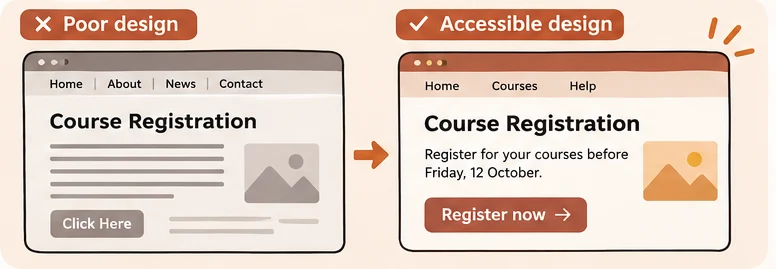
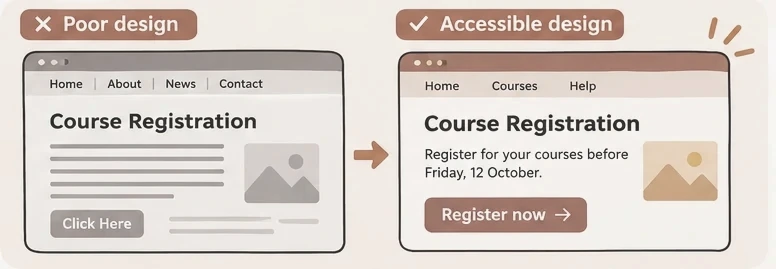
Add files via upload

diff --git a/index.html b/index.html
@@ -1,28 +1,35 @@
-<!doctype html>
+<!DOCTYPE html>
+
 <html lang="en">
 <head>
-<meta charset="utf-8">
-<meta name="viewport" content="width=device-width, initial-scale=1">
-<meta name="theme-color" content="#fff2e5">
-<meta name="description" content="Digit All or Nothing: a practical, illustrated guide to digital accessibility for everyone.">
+<meta charset="utf-8"/>
+<meta content="width=device-width, initial-scale=1" name="viewport"/>
+<meta content="#fff2e5" name="theme-color"/>
+<meta content="Digit All or Nothing: a practical, illustrated guide to digital accessibility for everyone." name="description"/>
 <title>Digit All or Nothing | Digital Accessibility Guide</title>
-<link rel="preconnect" href="https://fonts.googleapis.com">
-<link rel="preconnect" href="https://fonts.gstatic.com" crossorigin>
-<link href="https://fonts.googleapis.com/css2?family=Libre+Baskerville:wght@400;700&family=Work+Sans:wght@400;500;600;700&display=swap" rel="stylesheet">
-<link rel="stylesheet" href="styles.css">
-<script src="script.js" defer></script>
+<link href="https://fonts.googleapis.com" rel="preconnect"/>
+<link crossorigin="" href="https://fonts.gstatic.com" rel="preconnect"/>
+<link href="https://fonts.googleapis.com/css2?family=Libre+Baskerville:wght@400;700&amp;family=Work+Sans:wght@400;500;600;700&amp;display=swap" rel="stylesheet"/>
+<link href="styles.css" rel="stylesheet"/>
+<script defer="" src="script.js"></script>
 </head>
 <body>
 <a class="skip-link" href="#main">Skip to main content</a>
-<header class="site-header"><div class="shell header-inner"><a class="wordmark" href="#welcome" aria-label="Digit All or Nothing, back to top"><span class="brand-mark">D<span class="brand-dot">.</span></span><span>DIGIT ALL<br>OR NOTHING</span></a><button class="menu-button" type="button" aria-controls="site-nav" aria-expanded="false">Explore <span aria-hidden="true">☰</span></button><nav id="site-nav" class="nav" aria-label="Sections"><a href="#barriers">Barriers</a><a href="#features">Features</a><a href="#how-to">How-to</a><a href="#design">Design</a><a href="#tips">Tips</a></nav></div></header>
+<header class="site-header"><div class="shell header-inner"><a aria-label="Digit All or Nothing, back to top" class="wordmark" href="#welcome"><span>DIGIT ALL<br/>OR NOTHING</span></a><button aria-controls="site-nav" aria-expanded="false" class="menu-button" type="button">Explore <span aria-hidden="true">☰</span></button><nav aria-label="Sections" class="nav" id="site-nav"><a href="#barriers">Barriers</a><a href="#features">Features</a><a href="#how-to">How-to</a><a href="#design">Design</a><a href="#tips">Tips</a></nav></div></header>
 <main id="main">
-<section id="welcome" class="hero"><div class="shell hero-grid"><div class="hero-copy"><p class="eyebrow"><span class="tiny-line"></span> DIGITAL ACCESSIBILITY · SDG 4.4</p><h1>Technology should work <em>for everyone.</em></h1><p class="lead">A friendly, practical guide to removing digital barriers—and making the online world more inclusive, one small change at a time.</p><a class="primary-link" href="#barriers">Explore the guide <span aria-hidden="true">↗</span></a><p class="hero-foot">No sign-up. No downloads. Just useful knowledge.</p></div><div class="hero-art"><img src="assets/hero.webp" alt="Illustration of students with different accessibility needs using a laptop and tablet together, including a student with a white cane" width="778" height="411" fetchpriority="high"><div class="floating-note">Access is for <strong>everyone.</strong></div></div></div></section>
-<section class="intro-strip"><div class="shell intro-inner"><div class="intro-number">01 <span>— WELCOME</span></div><div><h2>What is digital accessibility?</h2><p>Digital accessibility means making websites, apps and digital information usable by people with different abilities and needs. It can involve screen readers, captions, clear navigation, readable text and flexible ways to interact.</p><p>Accessible technology helps people learn, communicate and work more independently. That supports the spirit of <strong>UN Sustainable Development Goal 4, Target 4.4</strong>: building relevant skills for education and employment.</p></div></div></section>
-<section id="barriers" class="section shell"><div class="section-top"><p class="eyebrow">02 · UNDERSTAND THE CHALLENGE</p><h2>Not everyone experiences<br>the web in the same way.</h2><p>A digital barrier is anything that makes online information or services difficult to access. Here are four common types.</p></div><div class="barrier-grid"><article class="barrier-card"><img src="assets/visual-barrier.webp" alt="Person squinting at small text displayed on a tablet" loading="lazy"><div class="card-body"><span class="card-index">01 / 04</span><h3>Visual barriers</h3><p>Small text, weak contrast or images without descriptions can block understanding.</p><p class="example"><strong>Example:</strong> A student cannot read tiny assignment instructions.</p></div></article><article class="barrier-card"><img src="assets/hearing-barrier.webp" alt="Student watching a video lecture with captions" loading="lazy"><div class="card-body"><span class="card-index">02 / 04</span><h3>Hearing barriers</h3><p>Videos without captions or transcripts can leave people out of the conversation.</p><p class="example"><strong>Example:</strong> A lecture recording contains speech but no captions.</p></div></article><article class="barrier-card"><img src="assets/motor-barrier.webp" alt="Hand operating a laptop while a mouse-only action is marked as unavailable" loading="lazy"><div class="card-body"><span class="card-index">03 / 04</span><h3>Motor barriers</h3><p>Mouse-only actions, tiny buttons and demanding gestures can make tasks inaccessible.</p><p class="example"><strong>Example:</strong> An online form cannot be completed with a keyboard.</p></div></article><article class="barrier-card"><img src="assets/cognitive-barrier.webp" alt="Student confused by an overcrowded computer interface" loading="lazy"><div class="card-body"><span class="card-index">04 / 04</span><h3>Cognitive barriers</h3><p>Complex wording, cluttered screens and unclear instructions increase effort.</p><p class="example"><strong>Example:</strong> A portal has too many competing menus.</p></div></article></div><p class="section-takeaway"><span aria-hidden="true">✳</span> <strong>The point:</strong> people need different ways to access the same information.</p></section>
-<section id="features" class="section features-section"><div class="shell"><div class="section-top"><p class="eyebrow">03 · TOOLS THAT HELP</p><h2>Accessibility is already<br>built into your devices.</h2><p>Many helpful tools come with the phone or computer you already own.</p></div><div class="feature-illustration"><img src="assets/features.webp" alt="Illustrated icons for screen readers, captions, voice typing, keyboard navigation, magnification and display settings" loading="lazy"></div><div class="features-grid"><article><span class="feature-num">01</span><h3>Screen readers</h3><p>Speak text, buttons and other interface information aloud. They work best when digital content is clearly labelled.</p></article><article><span class="feature-num">02</span><h3>Live captions</h3><p>Display spoken words as text during supported audio and video. Helpful for lectures and noisy surroundings.</p></article><article><span class="feature-num">03</span><h3>Voice typing</h3><p>Turn speech into text for messages, notes and documents when typing is difficult or inconvenient.</p></article><article><span class="feature-num">04</span><h3>Keyboard navigation</h3><p>Move between links and controls using <kbd>Tab</kbd>, <kbd>Shift</kbd> + <kbd>Tab</kbd> and <kbd>Enter</kbd> without a mouse.</p></article><article><span class="feature-num">05</span><h3>Magnification</h3><p>Enlarge a portion of the screen or zoom in to see details more comfortably.</p></article><article><span class="feature-num">06</span><h3>Display settings</h3><p>Adjust text size and contrast to make information easier to read.</p></article></div></div></section>
-<section id="how-to" class="section shell"><div class="section-top"><p class="eyebrow">04 · MAKE IT YOURS</p><h2>Try an accessibility<br>feature on your device.</h2><p>Select a device below to learn where to adjust text size. Menu names can vary by software version.</p></div><div class="tutorial"><div class="tutorial-left"><div class="device-tabs" role="group" aria-label="Choose your device"><button type="button" class="device-tab active" data-device="iphone" aria-pressed="true">iPhone</button><button type="button" class="device-tab" data-device="android" aria-pressed="false">Android</button><button type="button" class="device-tab" data-device="windows" aria-pressed="false">Windows</button><button type="button" class="device-tab" data-device="mac" aria-pressed="false">Mac</button></div><div class="tutorial-content" aria-live="polite" aria-atomic="true"><p class="eyebrow">TEXT SIZE TUTORIAL</p><h3 id="device-title">Increase text size on iPhone</h3><ol id="device-steps"><li>Open <strong>Settings</strong>.</li><li>Select <strong>Accessibility</strong>, then <strong>Display &amp; Text Size</strong>.</li><li>Choose <strong>Larger Text</strong> and adjust the slider.</li></ol><p id="device-note" class="tutorial-note">The available range may depend on the app and your iOS version.</p></div></div><div class="tutorial-right"><div class="tutorial-image-wrap"><img src="assets/device-concept.webp" alt="Concept illustration of an iPhone settings screen beside three instructional steps; not an actual screenshot" loading="lazy"></div><p class="image-disclaimer">Illustrative concept only · Real device screenshots will replace this image before publication.</p></div></div></section>
-<section id="design" class="section design-section"><div class="shell"><div class="section-top"><p class="eyebrow">05 · SEE THE DIFFERENCE</p><h2>Good design removes<br>unnecessary obstacles.</h2><p>Compare two versions of a university course-registration message. Select either view.</p></div><div class="comparison-grid"><div class="compare-controls" role="group" aria-label="Choose a design example"><button type="button" class="compare-tab" data-compare="poor" aria-pressed="false">Poor design</button><button type="button" class="compare-tab active" data-compare="good" aria-pressed="true">Accessible design</button></div><div id="compare-panel" class="compare-panel good"><div class="fake-browser"><div class="browser-top"><span aria-hidden="true">● ● ●</span><span>University course portal</span></div><div class="browser-content"><span id="compare-label" class="fake-subtitle">COURSE REGISTRATION</span><h3 id="compare-heading">Register for your courses</h3><p id="compare-description">Registration closes Friday. Review your choices before submitting.</p><span id="fake-cta" class="fake-cta">Review courses <span aria-hidden="true">↗</span></span></div></div></div><p id="compare-caption" class="comparison-caption" aria-live="polite"><strong>Accessible design:</strong> readable text, clear instructions and a descriptive action label help people know what to do next.</p></div><div class="design-extra"><div><strong>Use clear language</strong><p>Write instructions that tell people exactly what action to take.</p></div><div><strong>Make focus visible</strong><p>Keyboard users should be able to see which control is selected.</p></div><div><strong>Check contrast</strong><p>Text should remain readable against its background.</p></div></div></div></section>
-<section id="tips" class="section shell tips-section"><div class="section-top"><p class="eyebrow">06 · EVERYDAY HABITS</p><h2>Small changes.<br>More inclusive experiences.</h2><p>You don't need to be a designer to make digital information easier to use.</p></div><div class="tips-art"><img src="assets/tips.webp" alt="Illustrated reminder cards about image descriptions, text contrast and straightforward layouts" loading="lazy"></div><div class="tips-grid"><article><span class="tip-symbol" aria-hidden="true">↗</span><h3>When studying</h3><p>Turn on captions for recorded lectures, zoom in on reading materials and use headings to organise your notes.</p></article><article><span class="tip-symbol" aria-hidden="true">✳</span><h3>When communicating</h3><p>Describe meaningful images, use descriptive link text and don't rely on colour alone to communicate important information.</p></article><article><span class="tip-symbol" aria-hidden="true">Aa</span><h3>When creating content</h3><p>Choose readable text, logical headings, clear labels and strong contrast. Caption videos when possible.</p></article></div><div class="closing-message"><p class="eyebrow">ONE THING TO REMEMBER</p><p>Accessibility isn't an extra feature. <em>It's part of making technology work for people.</em></p><a href="#welcome">Back to top ↑</a></div></section>
+<section class="hero" id="welcome"><div class="shell hero-grid"><div class="hero-copy"><p class="eyebrow"> DIGITAL ACCESSIBILITY · SDG 4.4</p><h1>Technology should work <em>for everyone.</em></h1><p class="lead">A friendly, practical guide to removing digital barriers, and making the online world more inclusive, one small change at a time.</p><a class="primary-link" href="#barriers">Explore the guide <span aria-hidden="true">↗</span></a><p class="hero-foot">No sign-up. No downloads. Just useful knowledge.</p></div><div class="hero-art"><img alt="Illustration of three students using digital devices together, including a wheelchair user" fetchpriority="high" height="411" src="assets/hero.webp" width="778"/><div class="floating-note">Access is for <strong>everyone.</strong></div></div></div></section>
+<section class="intro-strip"><div class="shell intro-inner"><div class="intro-number">01 <span>:  WELCOME</span></div><div><h2>What is digital accessibility?</h2><p>Digital accessibility means making websites, apps and digital information usable by people with different abilities and needs. It can involve screen readers, captions, clear navigation, readable text and flexible ways to interact.</p><p>Accessible technology helps people learn, communicate and work more independently. That supports the spirit of <strong>UN Sustainable Development Goal 4, Target 4.4</strong>: building relevant skills for education and employment.</p></div></div></section>
+<section class="section shell" id="barriers"><div class="section-top"><p class="eyebrow">02 · UNDERSTAND THE CHALLENGE</p><h2>Not everyone experiences<br/>the web in the same way.</h2><p>A digital barrier is anything that makes online information or services difficult to access. Here are four common types.</p></div><div class="barrier-grid"><article class="barrier-card"><img alt="Person squinting at small text displayed on a tablet" loading="lazy" src="assets/visual-barrier.webp"/><div class="card-body"><span class="card-index">01 / 04</span><h3>Visual barriers</h3><p>Small text, weak contrast or images without descriptions can block understanding.</p><p class="example"><strong>Example:</strong> A student cannot read tiny assignment instructions.</p></div></article><article class="barrier-card"><img alt="Student watching a video lecture with captions" loading="lazy" src="assets/hearing-barrier.webp"/><div class="card-body"><span class="card-index">02 / 04</span><h3>Hearing barriers</h3><p>Videos without captions or transcripts can leave people out of the conversation.</p><p class="example"><strong>Example:</strong> A lecture recording contains speech but no captions.</p></div></article><article class="barrier-card"><img alt="Hand operating a laptop while a mouse-only action is marked as unavailable" loading="lazy" src="assets/motor-barrier.webp"/><div class="card-body"><span class="card-index">03 / 04</span><h3>Motor barriers</h3><p>Mouse-only actions, tiny buttons and demanding gestures can make tasks inaccessible.</p><p class="example"><strong>Example:</strong> An online form cannot be completed with a keyboard.</p></div></article><article class="barrier-card"><img alt="Student confused by an overcrowded computer interface" loading="lazy" src="assets/cognitive-barrier.webp"/><div class="card-body"><span class="card-index">04 / 04</span><h3>Cognitive barriers</h3><p>Complex wording, cluttered screens and unclear instructions increase effort.</p><p class="example"><strong>Example:</strong> A portal has too many competing menus.</p></div></article></div><p class="section-takeaway"><span aria-hidden="true">✳</span> <strong>The point:</strong> people need different ways to access the same information.</p></section>
+<section class="section features-section" id="features"><div class="shell"><div class="section-top"><p class="eyebrow">03 · TOOLS THAT HELP</p><h2>Accessibility is already<br/>built into your devices.</h2><p>Many helpful tools come with the phone or computer you already own.</p></div><div class="features-grid"><article><span class="feature-icon" style="--icon-color:#2563a6"><svg aria-hidden="true" fill="none" stroke="currentColor" stroke-linecap="round" stroke-linejoin="round" stroke-width="1.9" viewbox="0 0 24 24"><path d="M4 8h4l5-4v16l-5-4H4z"></path><path d="M17 8c2 2 2 6 0 8M20 5c4 4 4 10 0 14"></path></svg></span><span class="feature-num">01</span><h3>Screen readers</h3><p>Speak text, buttons and other interface information aloud. They work best when digital content is clearly labelled.</p></article><article><span class="feature-icon" style="--icon-color:#0f766e"><svg aria-hidden="true" fill="none" stroke="currentColor" stroke-linecap="round" stroke-linejoin="round" stroke-width="1.9" viewbox="0 0 24 24"><rect height="16" rx="3" width="20" x="2" y="4"></rect><path d="M7 11h4m-4 4h3m3-4h4m-4 4h4"></path></svg></span><span class="feature-num">02</span><h3>Live captions</h3><p>Display spoken words as text during supported audio and video. Helpful for lectures and noisy surroundings.</p></article><article><span class="feature-icon" style="--icon-color:#7953b5"><svg aria-hidden="true" fill="none" stroke="currentColor" stroke-linecap="round" stroke-linejoin="round" stroke-width="1.9" viewbox="0 0 24 24"><rect height="12" rx="3" width="6" x="9" y="2"></rect><path d="M5 10a7 7 0 0 0 14 0M12 17v5m-4 0h8"></path></svg></span><span class="feature-num">03</span><h3>Voice typing</h3><p>Turn speech into text for messages, notes and documents when typing is difficult or inconvenient.</p></article><article><span class="feature-icon" style="--icon-color:#b45309"><svg aria-hidden="true" fill="none" stroke="currentColor" stroke-linecap="round" stroke-linejoin="round" stroke-width="1.9" viewbox="0 0 24 24"><rect height="14" rx="2" width="20" x="2" y="5"></rect><path d="M5 9h2m3 0h2m3 0h2m-12 4h2m3 0h2m3 0h2M7 16h10"></path></svg></span><span class="feature-num">04</span><h3>Keyboard navigation</h3><p>Move between links and controls using <kbd>Tab</kbd>, <kbd>Shift</kbd> + <kbd>Tab</kbd> and <kbd>Enter</kbd> without a mouse.</p></article><article><span class="feature-icon" style="--icon-color:#1c7c7d"><svg aria-hidden="true" fill="none" stroke="currentColor" stroke-linecap="round" stroke-linejoin="round" stroke-width="1.9" viewbox="0 0 24 24"><circle cx="10.5" cy="10.5" r="6.5"></circle><path d="m15.5 15.5 6 6M7.5 10.5h6m-3-3v6"></path></svg></span><span class="feature-num">05</span><h3>Magnification</h3><p>Enlarge a portion of the screen or zoom in to see details more comfortably.</p></article><article><span class="feature-icon" style="--icon-color:#a34e77"><svg aria-hidden="true" fill="none" stroke="currentColor" stroke-linecap="round" stroke-linejoin="round" stroke-width="1.9" viewbox="0 0 24 24"><rect height="16" rx="2" width="20" x="2" y="3"></rect><path d="M8 22h8m-4-3v3M6 8h7m-3.5-3v6M16 12h3m-1.5-3v6"></path></svg></span><span class="feature-num">06</span><h3>Display settings</h3><p>Adjust text size and contrast to make information easier to read.</p></article></div></div></section>
+<section class="section shell" id="how-to"><div class="section-top"><p class="eyebrow">04 · MAKE IT YOURS</p><h2>Try an accessibility<br/>feature on your device.</h2><p>Select a device below to learn where to adjust text size. Menu names can vary by software version.</p></div><div class="tutorial"><div class="tutorial-left"><div aria-label="Choose your device" class="device-tabs" role="group"><button aria-pressed="true" class="device-tab active" data-device="iphone" type="button">iPhone</button><button aria-pressed="false" class="device-tab" data-device="android" type="button">Android</button><button aria-pressed="false" class="device-tab" data-device="windows" type="button">Windows</button><button aria-pressed="false" class="device-tab" data-device="mac" type="button">Mac</button></div><div aria-atomic="true" aria-live="polite" class="tutorial-content"><p class="eyebrow">TEXT SIZE TUTORIAL</p><h3 id="device-title">Increase text size on iPhone</h3><ol id="device-steps"><li>Open <strong>Settings</strong>.</li><li>Select <strong>Accessibility</strong>, then <strong>Display &amp; Text Size</strong>.</li><li>Choose <strong>Larger Text</strong> and adjust the slider.</li></ol><p class="tutorial-note" id="device-note">The available range may depend on the app and your iOS version.</p></div></div><div class="tutorial-right"><div class="tutorial-image-wrap"><img alt="Concept illustration of an iPhone settings screen beside three instructional steps; not an actual screenshot" loading="lazy" src="assets/device-concept.webp"/></div><p class="image-disclaimer">Illustrative concept only · Real device screenshots will replace this image before publication.</p></div></div></section>
+<section class="section design-section" id="design"><div class="shell"><div class="section-top"><p class="eyebrow">05 · SEE THE DIFFERENCE</p><h2>Good design removes<br/>unnecessary obstacles.</h2><p>Compare two versions of a university course-registration message. Select either view.</p></div><div class="comparison-grid"><div aria-label="Choose a design example" class="compare-controls" role="group"><button aria-pressed="false" class="compare-tab" data-compare="poor" type="button">Poor design</button><button aria-pressed="true" class="compare-tab active" data-compare="good" type="button">Accessible design</button></div><div class="compare-panel good" id="compare-panel"><div class="fake-browser"><div class="browser-top"><span aria-hidden="true">● ● ●</span><span>University course portal</span></div><div class="browser-content"><span class="fake-subtitle" id="compare-label">COURSE REGISTRATION</span><h3 id="compare-heading">Register for your courses</h3><p id="compare-description">Registration closes Friday. Review your choices before submitting.</p><span class="fake-cta" id="fake-cta">Review courses <span aria-hidden="true">↗</span></span></div></div></div><p aria-live="polite" class="comparison-caption" id="compare-caption"><strong>Accessible design:</strong> readable text, clear instructions and a descriptive action label help people know what to do next.</p></div><div class="design-extra"><div><strong>Use clear language</strong><p>Write instructions that tell people exactly what action to take.</p></div><div><strong>Make focus visible</strong><p>Keyboard users should be able to see which control is selected.</p></div><div><strong>Check contrast</strong><p>Text should remain readable against its background.</p></div></div></div></section>
+<section class="section shell tips-section" id="tips"><div class="section-top"><p class="eyebrow">06 · EVERYDAY HABITS</p><h2>Small changes.<br/>More inclusive experiences.</h2><p>You don't need to be a designer to make digital information easier to use.</p></div><div class="tips-art"><img alt="Illustration of two students using a laptop with an accessibility symbol" loading="lazy" src="assets/tips.webp"/></div><div class="tips-grid"><article><span aria-hidden="true" class="tip-symbol" style="--icon-color:#2563a6"><svg aria-hidden="true" fill="none" stroke="currentColor" stroke-linecap="round" stroke-linejoin="round" stroke-width="1.9" viewbox="0 0 24 24"><path d="M3 5.5c3-1.7 6-1.7 9 .2v14c-3-1.9-6-1.9-9-.2z"></path><path d="M21 5.5c-3-1.7-6-1.7-9 .2v14c3-1.9 6-1.9 9-.2z"></path><path d="M6 9h3m6 0h3"></path></svg></span><h3>When studying</h3><p>Turn on captions for recorded lectures, zoom in on reading materials and use headings to organise your notes.</p></article><article><span aria-hidden="true" class="tip-symbol" style="--icon-color:#0f766e"><svg aria-hidden="true" fill="none" stroke="currentColor" stroke-linecap="round" stroke-linejoin="round" stroke-width="1.9" viewbox="0 0 24 24"><path d="M20 11.5a7.5 7.5 0 0 1-7.5 7.5 8 8 0 0 1-3.3-.7L4 20l1.6-4.6a7.5 7.5 0 1 1 14.4-3.9z"></path><path d="M8 10h8M8 13.5h5"></path></svg></span><h3>When communicating</h3><p>Describe meaningful images, use descriptive link text and don't rely on colour alone to communicate important information.</p></article><article><span aria-hidden="true" class="tip-symbol" style="--icon-color:#7953b5"><svg aria-hidden="true" fill="none" stroke="currentColor" stroke-linecap="round" stroke-linejoin="round" stroke-width="1.9" viewbox="0 0 24 24"><path d="M4 20h16M7 16l7-10 4 3-7 10-5 1zM14 6l2-2a2 2 0 0 1 3 3l-1 2"></path></svg></span><h3>When creating content</h3><p>Choose readable text, logical headings, clear labels and strong contrast. Caption videos when possible.</p></article></div><div class="closing-message"><p class="eyebrow">ONE THING TO REMEMBER</p><p>Accessibility isn't an extra feature. <em>It's part of making technology work for people.</em></p><a href="#welcome">Back to top ↑</a></div></section>
+<section aria-labelledby="team-heading" class="section team-section" id="team"><div class="shell"><div class="section-top"><p class="eyebrow">07 · THE PEOPLE BEHIND THE PROJECT</p><h2 id="team-heading">Meet the Team</h2><p>Digit All or Nothing is a six-member educational project focused on digital accessibility and inclusive learning. Through practical examples and everyday accessibility tools, we aim to help more people understand and reduce digital barriers, supporting the digital skills focus of Sustainable Development Goal 4.4.</p></div><div class="team-grid"><article class="team-card"><img alt="Photograph of Mohammad Fayyaz" height="480" loading="lazy" src="assets/01-mohammad-fayyaz.jpg" width="480"/><div class="team-card-copy"><h3>Mohammad Fayyaz</h3><p>Team Leader</p></div></article>
+<article class="team-card"><img alt="Photograph of Rahma Saad" height="480" loading="lazy" src="assets/02-rahma-saad.jpg" width="480"/><div class="team-card-copy"><h3>Rahma Saad</h3><p>Host and Coordinator</p></div></article>
+<article class="team-card"><img alt="Photograph of Song JiaXin" height="480" loading="lazy" src="assets/03-song-jiaxin.jpg" width="480"/><div class="team-card-copy"><h3>Song JiaXin</h3><p>Activity 1 Manager</p></div></article>
+<article class="team-card"><img alt="Photograph of Liao XinYan" height="480" loading="lazy" src="assets/04-liao-xinyan.jpg" width="480"/><div class="team-card-copy"><h3>Liao XinYan</h3><p>Activity 1 Manager</p></div></article>
+<article class="team-card"><img alt="Photograph of Umair Asif" height="480" loading="lazy" src="assets/05-umair-asif.jpg" width="480"/><div class="team-card-copy"><h3>Umair Asif</h3><p>Activity 2 Manager</p></div></article>
+<article class="team-card"><img alt="Photograph of Faseeh Ur Rahman Zahid" height="480" loading="lazy" src="assets/06-faseeh-ur-rahman.jpg" width="480"/><div class="team-card-copy"><h3>Faseeh Ur Rahman Zahid</h3><p>Activity 2 Manager</p></div></article></div></div></section>
 </main>
-<footer class="footer"><div class="shell footer-inner"><span>Digit All or Nothing · Digital Literacy & Inclusive Technology</span><span>Supporting SDG 4.4</span></div></footer>
+<footer class="footer"><div class="shell footer-inner"><span>Digit All or Nothing · Digital Literacy &amp; Inclusive Technology</span><span>Supporting SDG 4.4</span></div></footer>
 </body></html>

diff --git a/styles.css b/styles.css
@@ -1,1 +1,11 @@
 :root{--cream:#fff2e5;--cream2:#fbf7f1;--terracotta:#85452f;--rust:#ad5840;--soft:#d99270;--ink:#312b28;--muted:#625b55;--line:#e4d2c4;--white:#fff;--font-body:'Work Sans',Arial,sans-serif;--font-display:'Libre Baskerville',Georgia,serif}*{box-sizing:border-box}html{scroll-behavior:smooth;scroll-padding-top:90px}body{margin:0;background:var(--cream2);color:var(--ink);font-family:var(--font-body);font-size:16px;line-height:1.65}a{color:inherit}button{font:inherit}button:focus-visible,a:focus-visible{outline:3px solid #a44c23;outline-offset:4px}img{display:block;max-width:100%;height:auto}h1,h2,h3,p{margin-top:0}h1,h2,.closing-message>p:not(.eyebrow){font-family:var(--font-display);letter-spacing:-.045em;line-height:1.28}h2{font-size:clamp(2rem,4.2vw,3.45rem);margin-bottom:1.2rem}h3{font-size:1.25rem;line-height:1.35;margin-bottom:.6rem}.shell{width:min(1160px,calc(100% - 44px));margin:auto}.skip-link{position:absolute;z-index:999;top:-70px;left:12px;background:#fff;padding:10px}.skip-link:focus{top:12px}.site-header{position:sticky;top:0;z-index:20;background:#fff9f1ee;backdrop-filter:blur(14px);border-bottom:1px solid var(--line)}.header-inner{min-height:78px;display:flex;align-items:center;justify-content:space-between;gap:2rem}.wordmark{display:flex;align-items:center;gap:12px;text-decoration:none;font-size:.75rem;font-weight:700;line-height:1.13;letter-spacing:.075em;color:var(--terracotta)}.brand-mark{width:44px;height:44px;display:grid;place-items:center;border-radius:50%;background:var(--terracotta);color:#fff;font-family:var(--font-display);font-size:1.35rem}.brand-dot{color:#f5be93}.nav{display:flex;align-items:center;gap:clamp(.8rem,2.5vw,2rem)}.nav a{text-decoration:none;font-size:.87rem;font-weight:600}.nav a:hover{color:var(--rust);text-decoration:underline;text-underline-offset:5px}.menu-button{display:none;background:none;border:1px solid var(--terracotta);color:var(--terracotta);border-radius:30px;padding:7px 14px}.hero{background:var(--cream);overflow:hidden}.hero-grid{min-height:590px;display:grid;grid-template-columns:.95fr 1.05fr;align-items:center;gap:2rem;padding:65px 0}.eyebrow{font-size:.72rem;color:var(--terracotta);font-weight:700;letter-spacing:.13em;line-height:1.5}.tiny-line{display:inline-block;background:var(--terracotta);height:2px;width:20px;vertical-align:middle;margin-right:6px}.hero h1{font-size:clamp(2.8rem,5.6vw,5.15rem);margin:1.4rem 0 1.2rem}.hero h1 em{font-weight:400;color:var(--rust)}.lead{max-width:480px;font-size:1.12rem;color:#574d47}.primary-link{display:inline-flex;align-items:center;justify-content:space-between;gap:30px;background:var(--terracotta);color:#fff;text-decoration:none;font-weight:600;border-radius:100px;padding:13px 24px;margin:10px 0}.primary-link:hover{background:#65321f}.hero-foot{font-size:.8rem;color:var(--muted);margin-top:16px}.hero-art{position:relative}.hero-art img{border-radius:20px;mix-blend-mode:multiply}.floating-note{position:absolute;right:6%;bottom:2%;background:#fff;padding:12px 17px;border-radius:12px;box-shadow:0 9px 25px #6a3f2b1c;font-size:.88rem;transform:rotate(-4deg)}.floating-note strong{color:var(--terracotta)}.intro-strip{background:#fff;padding:76px 0}.intro-inner{display:grid;grid-template-columns:1fr 2fr;gap:3rem}.intro-inner>div:nth-child(2){max-width:720px}.intro-number{font-size:1.25rem;color:var(--terracotta);font-weight:700}.intro-number span{font-size:.77rem;letter-spacing:.1em}.intro-inner h2{font-size:clamp(1.8rem,3vw,2.7rem)}.intro-inner p{color:#4c4540}.section{padding-top:100px;padding-bottom:100px}.section-top{max-width:800px;margin-bottom:45px}.section-top>p:last-child{max-width:660px;color:var(--muted);font-size:1.03rem}.barrier-grid{display:grid;grid-template-columns:repeat(4,1fr);gap:18px}.barrier-card{border:1px solid var(--line);border-radius:15px;overflow:hidden;background:#fff}.barrier-card>img{width:100%;height:180px;object-fit:cover;object-position:top center;background:var(--cream)}.card-body{padding:22px 20px}.card-body p{font-size:.88rem;line-height:1.55}.card-index,.feature-num{color:var(--terracotta);font-size:.72rem;font-weight:700;letter-spacing:.1em}.card-body h3{font-size:1.08rem;margin:8px 0}.example{border-top:1px solid var(--line);padding-top:12px;margin-bottom:0;color:#61574f}.section-takeaway{margin:29px 0 0;font-size:1.02rem}.section-takeaway>span{font-size:1.5rem;color:var(--rust)}.features-section{background:#f5e5d7}.feature-illustration{overflow:hidden;border-radius:16px;background:#fff9f3;margin-bottom:36px;max-height:330px}.feature-illustration img{width:100%;height:100%;object-fit:cover}.features-grid{display:grid;grid-template-columns:repeat(3,1fr);gap:15px}.features-grid article{background:#fff9f4;border:1px solid #e5d0c1;border-radius:12px;padding:26px}.features-grid h3{margin:7px 0}.features-grid p{margin:0;font-size:.92rem;color:#504740}.features-grid kbd{background:#f0e6dd;border-radius:4px;padding:1px 5px;font-family:inherit;font-size:.84rem}.tutorial{display:grid;grid-template-columns:1fr 1fr;gap:36px;align-items:start}.tutorial-left{background:#fff;border:1px solid var(--line);padding:25px;border-radius:15px}.device-tabs{display:grid;grid-template-columns:repeat(4,1fr);gap:6px}.device-tab,.compare-tab{background:#fcf8f4;color:var(--terracotta);border:1px solid #d4b9a7;border-radius:8px;padding:11px 5px;cursor:pointer;font-size:.84rem;font-weight:600}.device-tab.active,.compare-tab.active{background:var(--terracotta);color:#fff;border-color:var(--terracotta)}.tutorial-content{padding:30px 5px 10px}.tutorial-content h3{font-family:var(--font-display);font-size:1.5rem}.tutorial-content li{margin:0 0 13px;padding-left:4px}.tutorial-content li::marker{font-weight:700;color:var(--terracotta)}.tutorial-note{color:var(--muted);font-size:.85rem;margin-top:22px}.tutorial-image-wrap{border-radius:15px;overflow:hidden;background:var(--cream)}.tutorial-image-wrap img{width:100%;object-fit:cover}.image-disclaimer{font-size:.8rem;color:var(--muted);margin-top:10px}.design-section{background:#fff}.comparison-grid{max-width:880px;margin:auto}.compare-controls{display:flex;justify-content:center;gap:10px;margin-bottom:20px}.compare-tab{padding:10px 24px}.compare-panel{padding:30px;background:var(--cream);border-radius:16px;border:1px solid var(--line);transition:background .2s}.fake-browser{max-width:620px;margin:auto;border-radius:13px;overflow:hidden;border:1px solid #c6b4a7;background:#fff}.browser-top{display:flex;align-items:center;justify-content:space-between;background:#e9d9ce;color:#5b463b;font-size:.7rem;padding:8px 14px}.browser-top span:first-child{color:#ad644c;letter-spacing:5px}.browser-content{padding:35px}.fake-subtitle{font-size:.72rem;color:var(--terracotta);font-weight:700;letter-spacing:.1em}.browser-content h3{font-family:var(--font-display);font-size:1.8rem;margin:9px 0}.browser-content p{color:#413b36}.fake-cta{display:inline-block;background:var(--terracotta);color:#fff;padding:10px 19px;border-radius:6px;font-weight:600;margin-top:10px}.compare-panel.poor{background:#efefed}.compare-panel.poor .fake-browser{background:#f9f9f9;border-color:#dadada}.compare-panel.poor .browser-top{background:#e2e2e2;color:#666}.compare-panel.poor .fake-subtitle{color:#aaa;font-size:.66rem}.compare-panel.poor .browser-content h3{font:700 1rem Arial,sans-serif;color:#777}.compare-panel.poor .browser-content p{font-size:.74rem;color:#b0b0b0;max-width:310px}.compare-panel.poor .fake-cta{font-size:.75rem;background:#aaa;color:#f7f7f7;border-radius:0}.comparison-caption{text-align:center;max-width:640px;margin:19px auto 0}.design-extra{margin-top:60px;display:grid;grid-template-columns:repeat(3,1fr);gap:22px}.design-extra>div{border-top:2px solid var(--terracotta);padding-top:15px}.design-extra p{font-size:.9rem;color:var(--muted)}.tips-art{border-radius:16px;overflow:hidden;margin-bottom:30px}.tips-art img{width:100%}.tips-grid{display:grid;grid-template-columns:repeat(3,1fr);gap:16px}.tips-grid article{padding:27px;border:1px solid var(--line);border-radius:14px;background:#fff}.tip-symbol{color:var(--rust);font-family:var(--font-display);font-size:1.8rem}.tips-grid h3{margin:10px 0}.tips-grid p{font-size:.92rem;color:var(--muted);margin:0}.closing-message{margin-top:70px;background:var(--cream);padding:45px;border-radius:16px;max-width:850px}.closing-message>p:not(.eyebrow){font-size:clamp(1.5rem,3vw,2.4rem);line-height:1.5}.closing-message em{color:var(--terracotta)}.closing-message a{font-weight:700;color:var(--terracotta)}.footer{border-top:1px solid var(--line);padding:23px 0;background:#fff}.footer-inner{display:flex;justify-content:space-between;gap:20px;font-size:.78rem;color:var(--muted)}@media(max-width:900px){.barrier-grid{grid-template-columns:repeat(2,1fr)}.hero-grid{min-height:unset;gap:12px}.hero h1{font-size:clamp(2.5rem,6vw,4.5rem)}.features-grid{grid-template-columns:repeat(2,1fr)}}@media(max-width:680px){.shell{width:min(100% - 32px,540px)}.header-inner{min-height:68px}.menu-button{display:block}.nav{display:none;position:absolute;top:68px;left:0;right:0;background:#fff9f1;border-bottom:1px solid var(--line);padding:18px 22px;flex-direction:column;align-items:stretch;gap:0}.nav.open{display:flex}.nav a{padding:11px 4px}.hero-grid{grid-template-columns:1fr;padding:51px 0 25px}.hero h1{font-size:clamp(2.6rem,10vw,4.2rem)}.hero-art{margin:13px -8px 15px}.intro-strip{padding:55px 0}.intro-inner{grid-template-columns:1fr;gap:14px}.section{padding-top:68px;padding-bottom:68px}.section-top{margin-bottom:26px}.section-top h2{font-size:clamp(1.85rem,8vw,2.6rem)}.barrier-grid{gap:12px}.barrier-card>img{height:125px}.card-body{padding:17px 13px}.card-body h3{font-size:1rem}.card-body p{font-size:.82rem}.features-grid{gap:10px}.features-grid article{padding:18px}.features-grid h3{font-size:1rem}.features-grid p{font-size:.84rem}.feature-illustration{margin-bottom:20px}.tutorial{grid-template-columns:1fr;gap:18px}.tutorial-left{padding:14px}.device-tab{font-size:.75rem}.tutorial-content{padding:24px 8px 2px}.tutorial-right{max-width:500px}.design-extra,.tips-grid{grid-template-columns:1fr}.design-extra{gap:10px;margin-top:40px}.compare-panel{padding:14px}.browser-content{padding:22px}.browser-content h3{font-size:1.45rem}.compare-tab{padding:10px 14px}.tips-grid{gap:12px}.closing-message{padding:28px}.footer-inner{flex-direction:column;gap:5px}}@media(max-width:390px){.barrier-grid{grid-template-columns:1fr}.barrier-card>img{height:190px}.features-grid{grid-template-columns:1fr}.device-tab{font-size:.7rem;padding:9px 2px}}@media(prefers-reduced-motion:reduce){html{scroll-behavior:auto}*,*::before,*::after{transition:none!important;animation:none!important}}
+
+/* Meet the Team: additional section */
+.team-section{background:#faf5ee}.team-grid{display:grid;grid-template-columns:repeat(3,minmax(0,1fr));gap:22px}.team-card{background:#fff;border:1px solid var(--line);border-radius:16px;overflow:hidden;min-width:0}.team-card img{display:block;width:100%;height:auto;aspect-ratio:1/1;object-fit:cover;object-position:center top}.team-card-copy{padding:20px}.team-card-copy h3{margin:0 0 7px;font-size:1.15rem;overflow-wrap:anywhere}.team-card-copy p{margin:0;color:var(--muted);font-size:.93rem}@media(max-width:680px){.team-grid{grid-template-columns:repeat(2,minmax(0,1fr));gap:12px}.team-card-copy{padding:14px}.team-card-copy h3{font-size:1rem}.team-card-copy p{font-size:.82rem}}@media(max-width:390px){.team-grid{grid-template-columns:1fr}.team-card img{aspect-ratio:4/3}}
+
+/* Final refinements: legible, varied icon palette and richer illustration colors. */
+.wordmark{gap:0}.hero .eyebrow{display:flex;align-items:center;gap:0}
+.features-grid article{position:relative}.feature-icon,.tip-symbol{display:grid;place-items:center;width:48px;height:48px;border-radius:13px;color:var(--icon-color);background:color-mix(in srgb,var(--icon-color) 12%,white);margin-bottom:14px}.feature-icon svg,.tip-symbol svg{height:27px;width:27px}.tip-symbol{width:54px;height:54px}.tips-grid h3{margin-top:6px}
+/* The original illustrations are muted sepia; brighten and enrich their existing skin, leaf, and screen hues without replacing subjects or embedded labels. */
+.hero-art img,.barrier-card>img,.tutorial-image-wrap img,.tips-art img{filter:saturate(1.55) contrast(1.045)}
+@media(max-width:680px){.feature-icon{width:43px;height:43px}.feature-icon svg{width:24px;height:24px}}
